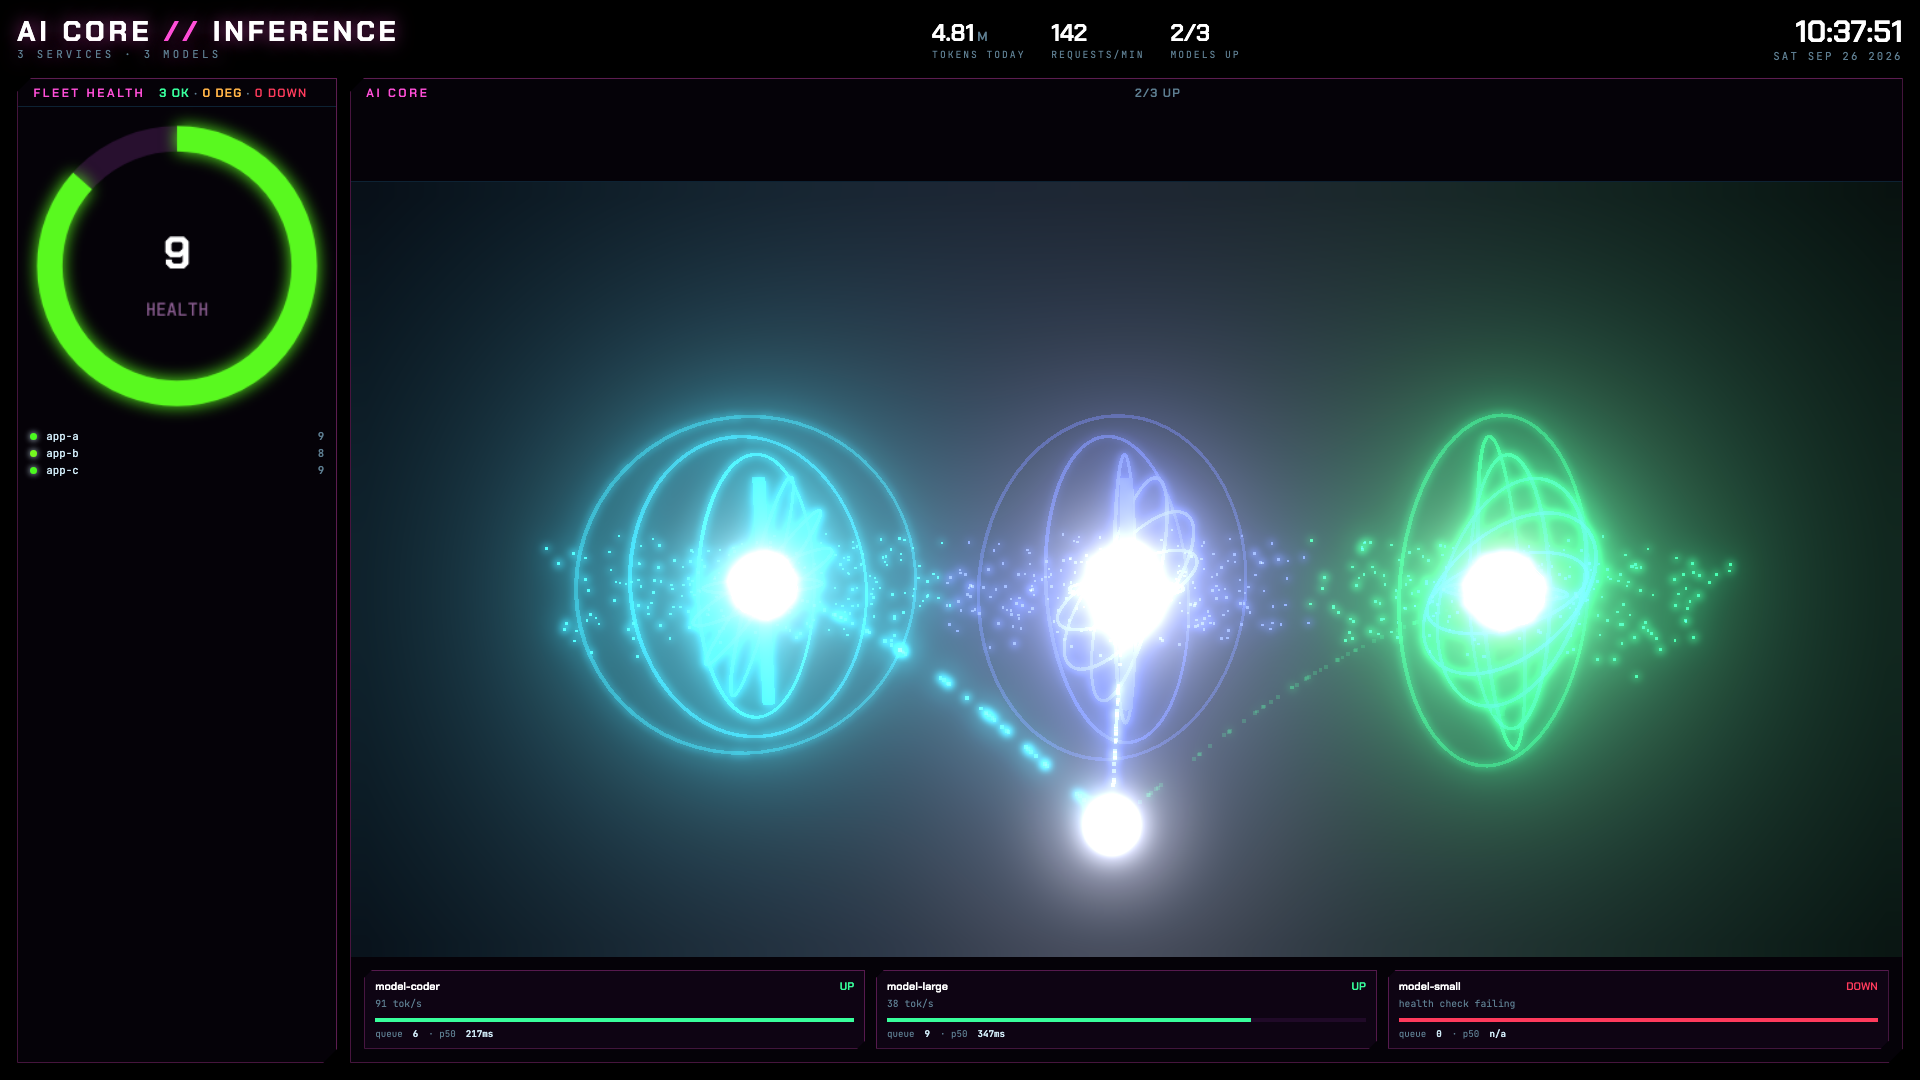
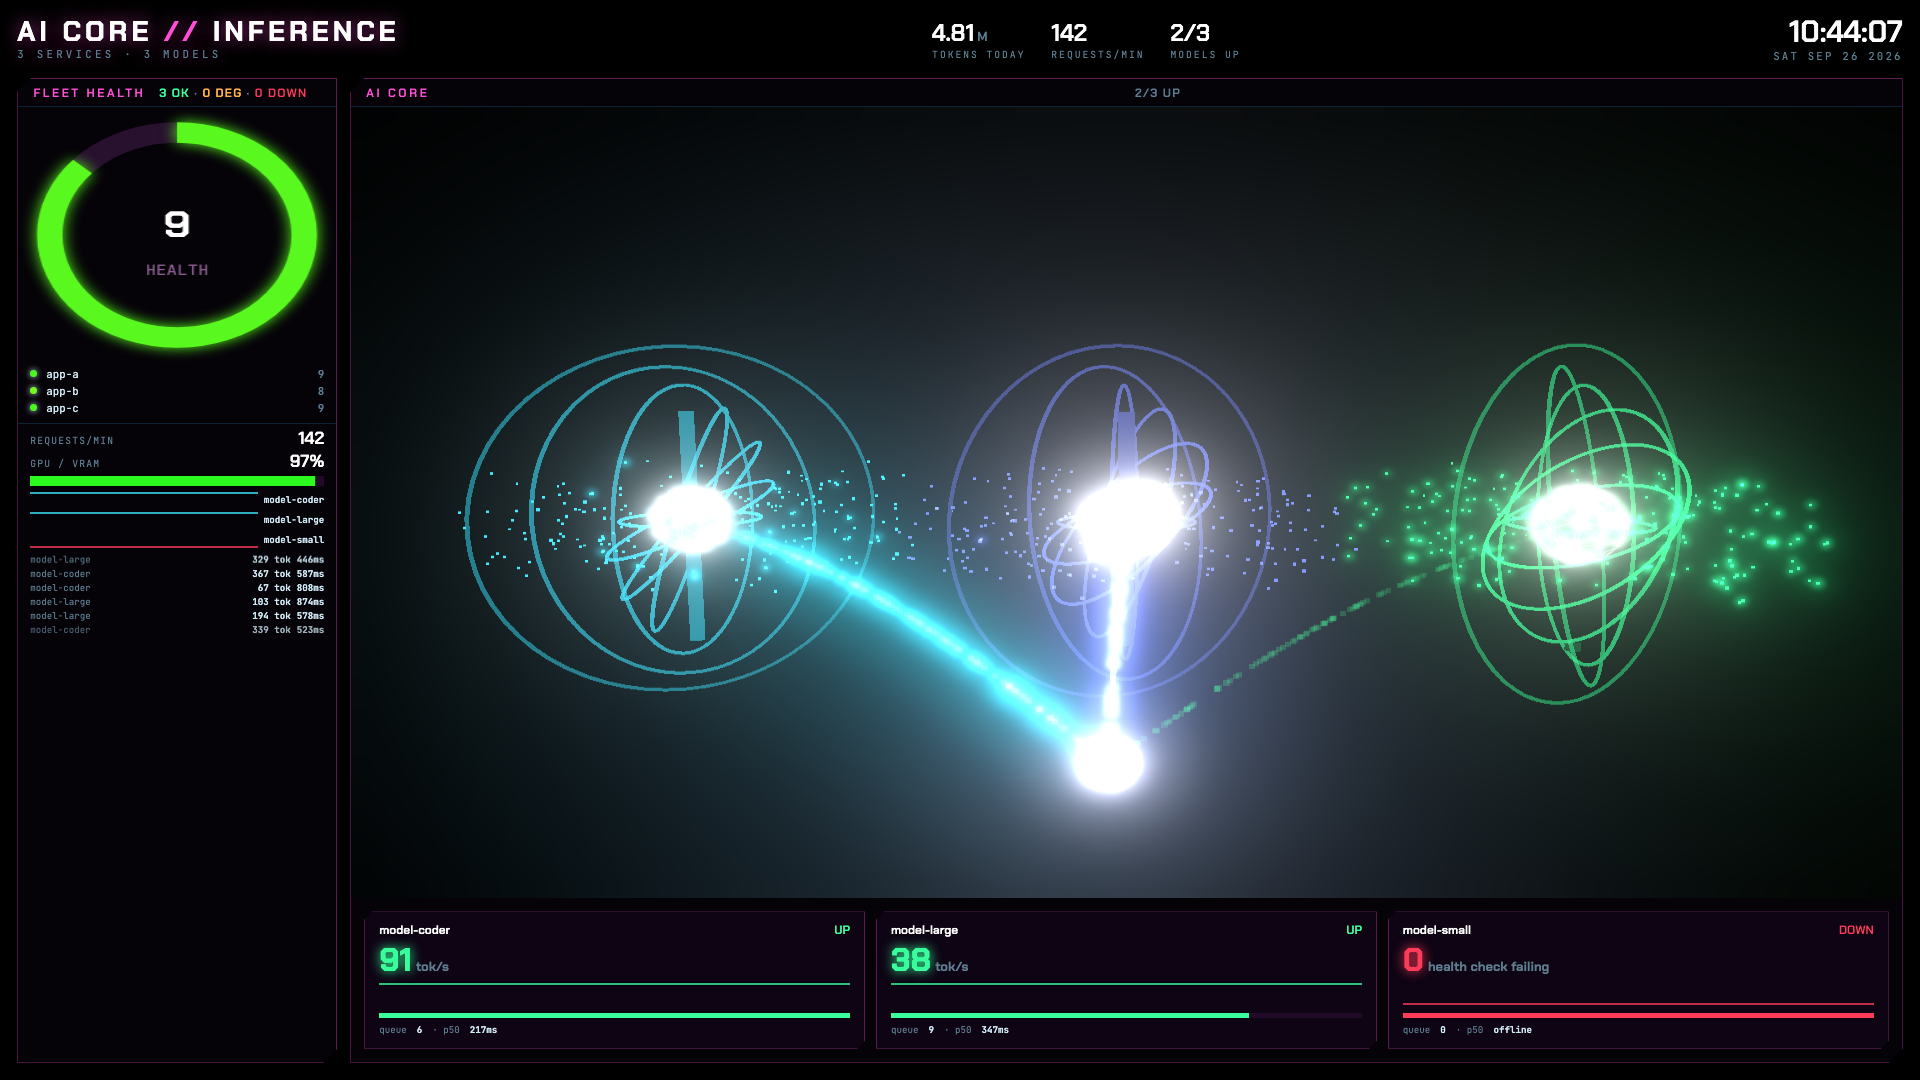
fix(mc3): solid black background, fill dead space, bolder model cards
- Opaque WebGL clear colour (alpha:false) plus a tighter bloom threshold/radius:
  the previous low threshold (0.1) bloomed nearly every lit pixel, reading as a
  teal/grey fog wash across the whole viewport instead of solid black with glow
  confined to the objects.
- #cores now declares 3 explicit grid row tracks (h2/reactor/modeltab) instead
  of 2 for 3 children — the implicit third row had been handing the header a
  share of the flexible track, leaving a dead strip above the scene.
- Fills the fleet-health column below the 3 app rows with requests/min, a
  GPU/VRAM stand-in gauge, per-model tok/s sparklines, and a scrolling
  synthetic recent-request feed (model, tokens, latency) — all data-source
  stand-in where no live metric exists.
- Model cards: bigger bold tok/s hero number, a mini tok/s sparkline, and
  "offline" in place of "n/a" for a down model's latency (n/a read as
  non-production text).
- Doubles the hub-bound particle count per stream and ramps each particle's
  colour from dim (at the core) to bright (at the hub) so flow direction reads
  from a single still frame, not only from motion between frames.

Assisted-by: Claude:claude-sonnet-5
Claude-Session: https://claude.ai/code/session_01NMFoeki5AFRtcpDmd74e6T

diff --git a/site/mc3/mc3.js b/site/mc3/mc3.js
@@ -116,23 +116,115 @@ function standInQueueLatency(m) {
   const base = hashN(m.n) % 7;
   return { queue: base + Math.round(m.tok / 15), p50: 80 + base * 35 + Math.round(m.tok * 1.5) };
 }
+// Rolling per-model tok/s history for the sparklines (model cards + fleet-health column). Real
+// once the router feed answers (each refresh tick appends the live tok value); a brand-new name
+// seeds flat at its first-seen value, same technique SAMPLE_LLM.hist already uses, so a sparkline
+// never has to fabricate a past it doesn't know.
+const HIST_N = 24;
+const tokHistory = new Map();
+function pushHist(name, tok) {
+  let h = tokHistory.get(name);
+  if (!h) { h = Array(HIST_N).fill(tok); tokHistory.set(name, h); }
+  else { h.push(tok); h.shift(); }
+  return h;
+}
+function drawSpark(canvas, hist, color) {
+  const dpr = Math.min(devicePixelRatio || 1, 2);
+  const w = Math.max(1, Math.round(canvas.clientWidth * dpr)), h = Math.max(1, Math.round(canvas.clientHeight * dpr));
+  if (canvas.width !== w) canvas.width = w;
+  if (canvas.height !== h) canvas.height = h;
+  const c = canvas.getContext('2d');
+  c.clearRect(0, 0, w, h);
+  const max = Math.max(1, ...hist);
+  c.beginPath();
+  hist.forEach((v, i) => {
+    const x = (i / (hist.length - 1)) * w, y = h - (v / max) * (h - 2 * dpr) - dpr;
+    i === 0 ? c.moveTo(x, y) : c.lineTo(x, y);
+  });
+  c.strokeStyle = color; c.lineWidth = 1.5 * dpr; c.lineJoin = 'round'; c.stroke();
+}
+
 function renderCore() {
   const sample = !model.models.length;
   const list = sample ? SAMPLE_LLM.map((m) => ({ n: m.n, up: m.state < 2, tok: m.tok })) : model.models;
   reactorList = list;
+  list.forEach((m) => pushHist(m.n, m.tok));
   $('modeltab').innerHTML = list.map((m) => {
     const col = m.up ? (m.tok > 0.05 ? 'var(--green)' : 'var(--cyan)') : 'var(--red)';
-    const status = m.up ? (m.tok > 0.05 ? `${m.tok.toFixed(0)} tok/s` : 'idle') : 'health check failing';
+    const status = m.up ? 'tok/s' : 'health check failing';
     const { queue, p50 } = standInQueueLatency(m);
     return `<div class="mc"><div class="mch"><b title="${esc(m.n)}">${esc(m.n.split('/').pop())}</b><span style="color:${col}">${m.up ? 'UP' : 'DOWN'}</span></div>
-      <div class="mcv">${status}</div>
+      <div class="mctok" style="color:${col}">${m.up ? m.tok.toFixed(0) : '0'}<i>${status}</i></div>
+      <canvas class="mcspark" data-model="${esc(m.n)}"></canvas>
       <div class="mcbar"><div style="width:${m.up ? clamp(m.tok * 2, 6, 100) : 100}%;background:${col}"></div></div>
-      <div class="mcstats" data-source="stand-in">queue <b>${queue}</b> &middot; p50 <b>${p50 == null ? 'n/a' : `${p50}ms`}</b></div></div>`;
+      <div class="mcstats" data-source="stand-in">queue <b>${queue}</b> &middot; p50 <b>${p50 == null ? 'offline' : `${p50}ms`}</b></div></div>`;
   }).join('');
+  for (const canvas of $('modeltab').querySelectorAll('.mcspark')) {
+    const m = list.find((x) => x.n === canvas.dataset.model);
+    drawSpark(canvas, tokHistory.get(m.n) || [0], m.up ? (m.tok > 0.05 ? '#38ff9c' : '#3ee6ff') : '#ff3b5c');
+  }
   const up = list.filter((m) => m.up).length;
   $('coresum').textContent = `${up}/${list.length} UP`;
   setSampleBadge($('cores'), sample);
   setState($('cores'), 'ok');
+  renderCoreExtra(list);
+}
+
+/* ---------------- fleet-health column fill: req/min, GPU/VRAM, sparklines, request feed ------- */
+// No GPU/VRAM exporter and no per-request feed exist yet (see Q, site/lib/queries.js) — these two
+// widgets are always stand-in, deterministically driven off the real model list so they still
+// track UP/DOWN and load instead of sitting frozen. cxReqMin mirrors the real header KPI and
+// carries no [data-source] marker of its own.
+let feedTimer = null;
+onDispose(() => { if (feedTimer) clearTimeout(feedTimer); });
+function renderCoreExtra(list) {
+  $('cxReqMin').textContent = model.reqPerMin != null ? model.reqPerMin.toFixed(0) : '0';
+
+  const upList = list.filter((m) => m.up);
+  const gpuPct = clamp(Math.round((upList.reduce((s, m) => s + m.tok, 0) / Math.max(1, list.length)) * 2 + upList.length * 8), 4, 97);
+  $('cxGpu').textContent = `${gpuPct}%`;
+  $('cxGpu').dataset.source = 'stand-in';
+  const gauge = $('gpuGauge'), gc = gauge.getContext('2d');
+  const dpr = Math.min(devicePixelRatio || 1, 2);
+  const gw = Math.max(1, Math.round(gauge.clientWidth * dpr)), gh = Math.max(1, Math.round(gauge.clientHeight * dpr));
+  if (gauge.width !== gw) gauge.width = gw;
+  if (gauge.height !== gh) gauge.height = gh;
+  gc.clearRect(0, 0, gw, gh);
+  gc.fillStyle = '#200a28'; gc.fillRect(0, 0, gw, gh);
+  gc.fillStyle = hue(gpuPct); gc.fillRect(0, 0, gw * gpuPct / 100, gh);
+  gauge.dataset.source = 'stand-in';
+
+  $('modelSparks').innerHTML = list.map((m) => `<div class="spk"><canvas class="spkc" data-model="${esc(m.n)}"></canvas><b>${esc(m.n.split('/').pop())}</b></div>`).join('');
+  for (const canvas of $('modelSparks').querySelectorAll('.spkc')) {
+    const m = list.find((x) => x.n === canvas.dataset.model);
+    drawSpark(canvas, tokHistory.get(m.n) || [0], m.up ? '#3ee6ff' : '#ff3b5c');
+  }
+
+  // Synthetic recent-request feed: one row per tick from a randomly-picked UP model, cadence
+  // scaled by how many models are actually serving traffic. Never scheduled twice (feedTimer
+  // guards against overlapping timers across refresh ticks, the same pattern MC2's blocked-feed
+  // scheduler uses).
+  if (!feedTimer) scheduleFeedTick(list);
+}
+function scheduleFeedTick(list) {
+  const upList = list.filter((m) => m.up);
+  const delay = RM ? 4000 : upList.length ? 900 / upList.length : 2500;
+  feedTimer = setTimeout(() => {
+    feedTimer = null;
+    if (upList.length) {
+      const m = upList[Math.floor(Math.random() * upList.length)];
+      const tokens = Math.max(1, Math.round(40 + Math.random() * 400));
+      const ms = Math.max(20, Math.round(60 + Math.random() * 900));
+      const row = document.createElement('div');
+      row.className = 'cfrow cfrow-in';
+      row.dataset.source = 'stand-in';
+      row.innerHTML = `<span>${esc(m.n.split('/').pop())}</span><b>${tokens} tok</b><b>${ms}ms</b>`;
+      const feed = $('reqfeed');
+      feed.prepend(row);
+      while (feed.children.length > 24) feed.lastElementChild.remove();
+    }
+    scheduleFeedTick(model.models.length ? model.models : SAMPLE_LLM.map((s) => ({ n: s.n, up: s.state < 2, tok: s.tok })));
+  }, delay);
 }
 
 /* ---------------- reactor: 3D hero (sketch scene 88) or 2D fallback ---------------- */
@@ -157,11 +249,20 @@ const CORE_GEOMETRIES = [
   () => new THREE.OctahedronGeometry(8, 2),
 ];
 function build3DCore() {
-  const renderer = new THREE.WebGLRenderer({ canvas: reactor, antialias: true, alpha: true });
+  // alpha:false + an opaque black clear colour, not a transparent canvas over the panel's CSS
+  // background: UnrealBloomPass blurs bright pixels outward, and over a transparent backdrop
+  // that blur composited with the panel's own background as a visible teal/grey fog wash edge
+  // to edge. An opaque black backbuffer keeps the glow confined to the objects themselves.
+  const renderer = new THREE.WebGLRenderer({ canvas: reactor, antialias: true, alpha: false });
+  renderer.setClearColor(0x000000, 1);
   const scene = new THREE.Scene();
   const cam = new THREE.PerspectiveCamera(42, 1, 1, 2000);
   cam.position.set(0, 30, 210);
-  const bloomFx = makeBloom(renderer, scene, cam, { strength: 1.25, radius: 0.55, threshold: 0.1 });
+  // threshold 0.1 + radius 0.55 bloomed nearly every lit pixel in the scene, not just the bright
+  // cores/hub — that wide, low-threshold blur is what read as a teal/grey fog wash across the
+  // whole canvas instead of solid black. A much higher threshold (only genuinely HDR pixels
+  // bloom) and a tighter radius confine the glow to the objects themselves.
+  const bloomFx = makeBloom(renderer, scene, cam, { strength: 1.1, radius: 0.32, threshold: 0.65 });
 
   const spacing = 78;
   const cores = Array.from({ length: CORE_COLS }, (_, i) => {
@@ -201,15 +302,20 @@ function build3DCore() {
   // One particle stream per core: STREAM_N points recycle along the straight line from that
   // core's centre to the hub, spawning at a random phase so the flow reads continuous rather
   // than as a single pulse. Speed scales with the core's utilisation (busier model = faster flow).
-  const STREAM_N = 60;
+  // Per-vertex colour (not a flat material colour) tapers brighter toward the hub end — a static
+  // screenshot still reads flow direction (dim at the core, bright arriving at the hub), not just
+  // motion over time.
+  const STREAM_N = 140;
   const streams = cores.map((c) => {
-    const pos = new Float32Array(STREAM_N * 3), pg = new THREE.BufferGeometry();
+    const pos = new Float32Array(STREAM_N * 3), pgcol = new Float32Array(STREAM_N * 3), pg = new THREE.BufferGeometry();
     pg.setAttribute('position', new THREE.BufferAttribute(pos, 3));
-    const mat = new THREE.PointsMaterial({ color: new THREE.Color(c.col).multiplyScalar(1.4), size: 1.8, transparent: true, opacity: 0.9, blending: THREE.AdditiveBlending, depthWrite: false });
+    pg.setAttribute('color', new THREE.BufferAttribute(pgcol, 3));
+    const mat = new THREE.PointsMaterial({ size: 2.4, transparent: true, opacity: 0.9, vertexColors: true, blending: THREE.AdditiveBlending, depthWrite: false });
     const pts = new THREE.Points(pg, mat);
     scene.add(pts);
     const phase = Array.from({ length: STREAM_N }, () => Math.random());
-    return { pos, pg, phase, mat };
+    const dim = new THREE.Color(c.col).multiplyScalar(0.5), bright = new THREE.Color(c.col).multiplyScalar(2.2);
+    return { pos, pgcol, pg, phase, mat, dim, bright };
   });
 
   const resizeAt = (w, h) => { renderer.setSize(w, h, false); bloomFx.setSize(w, h); cam.aspect = w / (h || 1); cam.updateProjectionMatrix(); };
@@ -256,9 +362,13 @@ function build3DCore() {
         stream.pos[k * 3] = from.x + (to.x - from.x) * ph;
         stream.pos[k * 3 + 1] = from.y + (to.y - from.y) * ph + Math.sin(ph * Math.PI) * 6;
         stream.pos[k * 3 + 2] = from.z + (to.z - from.z) * ph;
+        // Colour ramps dim->bright with ph (0 at the core, 1 at the hub) so the flow direction
+        // reads from a single still frame, not just from motion between frames.
+        stream.dim.clone().lerp(stream.bright, ph).toArray(stream.pgcol, k * 3);
       });
       stream.pg.attributes.position.needsUpdate = true;
-      stream.mat.opacity = c.up ? 0.9 : 0.08;
+      stream.pg.attributes.color.needsUpdate = true;
+      stream.mat.opacity = c.up ? 0.9 : 0.06;
     });
     bloomFx.render();
   }

diff --git a/site/mc3/mc3.css b/site/mc3/mc3.css
@@ -31,28 +31,57 @@ header{grid-column:1/-1;display:flex;align-items:center;gap:clamp(16px,2.4vmin,3
 
 /* fleet health (mandatory apps panel) */
 #apps{grid-row:2;grid-column:1;display:flex;flex-direction:column;overflow:hidden}
-#fleetRing{width:100%;aspect-ratio:1;max-height:34%;flex:none;display:block}
-.applist{flex:1;min-height:0;overflow:hidden auto;padding:4px clamp(8px,1.2vmin,12px) 8px;display:flex;flex-direction:column;gap:3px}
+#fleetRing{width:100%;aspect-ratio:1;max-height:26%;flex:none;display:block}
+.applist{flex:none;min-height:0;overflow:hidden;padding:4px clamp(8px,1.2vmin,12px) 8px;display:flex;flex-direction:column;gap:3px}
 .ar{display:grid;grid-template-columns:8px 1fr auto;align-items:center;gap:8px;font-size:clamp(10px,1vmin,12px)}
 .ar i{width:7px;height:7px;border-radius:50%;box-shadow:0 0 6px currentColor}
 .ar span{color:var(--ink);overflow:hidden;white-space:nowrap;text-overflow:ellipsis}
 .ar b{color:var(--dim);font-weight:600}
 
-/* AI core reactor + model table */
-#cores{grid-row:2;grid-column:2;display:grid;grid-template-rows:minmax(0,1fr) auto;overflow:hidden}
+/* Dense fill for the rest of the fleet-health column, below the 3 app rows: req/min, a GPU/VRAM
+   stand-in gauge, per-model tok/s sparklines, and a scrolling synthetic request feed. No live
+   GPU/VRAM or per-request metric exists (see Q, site/lib/queries.js) — this whole block is
+   stand-in, marked via [data-source] on the elements that carry no real number at all
+   (cxGpu/gauge/feed); cxReqMin mirrors the real header KPI, so it stays unmarked. */
+.coreextra{flex:1;min-height:0;display:flex;flex-direction:column;gap:6px;
+  padding:6px clamp(8px,1.2vmin,12px) 8px;border-top:1px solid var(--grid);overflow:hidden}
+.cxrow{display:flex;justify-content:space-between;align-items:baseline;font-size:clamp(9px,.9vmin,11px);color:var(--dim);letter-spacing:.12em;text-transform:uppercase}
+.cxrow b{color:#fff;font:600 clamp(14px,1.6vmin,18px)/1 var(--disp);letter-spacing:0}
+#gpuGauge{width:100%;height:10px;display:block;flex:none}
+.sparks{display:flex;flex-direction:column;gap:4px;flex:none}
+.spk{display:grid;grid-template-columns:1fr auto;align-items:center;gap:6px;font-size:clamp(9px,.85vmin,10px);color:var(--dim)}
+.spk canvas{width:100%;height:16px;display:block}
+.spk b{color:var(--ink);font-weight:600;white-space:nowrap}
+.coreextra .feed{position:relative;flex:1;min-height:0;overflow:hidden;display:flex;flex-direction:column;gap:2px}
+.cfrow{display:grid;grid-template-columns:1fr auto auto;gap:6px;font-size:clamp(9px,.85vmin,10px);color:var(--dim);white-space:nowrap}
+.cfrow b{color:var(--ink);font-weight:600}
+.cfrow:nth-child(n+6){opacity:.75}
+.cfrow:nth-child(n+11){opacity:.5}
+.cfrow-in{animation:cfrow-in .35s ease-out}
+@keyframes cfrow-in{from{opacity:0;transform:translateY(-4px)}to{opacity:1;transform:none}}
+
+/* AI core reactor + model table — 3 explicit row tracks (h2 / reactor / modeltab) so h2 gets
+   only its content height instead of a share of the flexible track (grid auto-placement with
+   only 2 explicit tracks for 3 children handed h2 part of the 1fr row, leaving a ~70px dead
+   strip above the scene). */
+#cores{grid-row:2;grid-column:2;display:grid;grid-template-rows:auto minmax(0,1fr) auto;overflow:hidden}
 #reactor{width:100%;height:100%;min-height:0;display:block}
 /* max-height as a viewport unit, not a %: a percentage here resolves against the grid row's
    auto-sized (content-dependent) height, which is circular and clipped the 4th (queue/latency)
    line silently — overflow:auto with no visible scrollbar, so the row just vanished. */
-.modeltab{display:grid;grid-template-columns:repeat(auto-fit,minmax(180px,1fr));gap:clamp(8px,1vmin,12px);
-  padding:clamp(8px,1.2vmin,14px);max-height:clamp(120px,22vh,220px);overflow:auto}
-.mc{border:1px solid rgba(255,79,216,.3);background:rgba(20,6,26,.6);padding:8px 10px;
+.modeltab{display:grid;grid-template-columns:repeat(auto-fit,minmax(200px,1fr));gap:clamp(8px,1vmin,12px);
+  padding:clamp(8px,1.2vmin,14px);max-height:clamp(160px,28vh,280px);overflow:auto}
+.mc{border:1px solid rgba(255,79,216,.3);background:rgba(20,6,26,.6);padding:10px 14px 12px;
   clip-path:polygon(8px 0,100% 0,100% calc(100% - 8px),calc(100% - 8px) 100%,0 100%,0 8px)}
-.mch{display:flex;justify-content:space-between;gap:8px;font:600 clamp(10px,1vmin,12px) var(--disp)}
+.mch{display:flex;justify-content:space-between;gap:8px;font:600 clamp(11px,1.1vmin,13px) var(--disp)}
 .mch b{color:#fff;overflow:hidden;white-space:nowrap;text-overflow:ellipsis;font-weight:600}
-.mcv{color:var(--dim);font-size:clamp(9px,.9vmin,11px);margin-top:4px}
-.mcbar{height:4px;background:#200a28;margin-top:8px}
+/* Big, bold tok/s readout is the card's hero number — everything else stays secondary. */
+.mctok{font:700 clamp(22px,3vmin,34px)/1 var(--disp);color:#fff;margin-top:6px;text-shadow:0 0 12px currentColor}
+.mctok i{font-style:normal;font-size:.4em;color:var(--dim);margin-left:4px;text-shadow:none}
+.mcv{color:var(--dim);font-size:clamp(9px,.9vmin,11px);margin-top:2px}
+.mcbar{height:5px;background:#200a28;margin-top:8px}
 .mcbar div{height:100%}
+.mcspark{width:100%;height:22px;display:block;margin-top:6px}
 /* Dense per-model readout row: queue depth + p50 latency, surrounding the reactor scene
    alongside tok/s and UP/DOWN status. No live litellm queue/latency metric exists yet (see
    Q in site/lib/queries.js) — always stand-in, marked on .modeltab itself via setStandIn. */

diff --git a/site/mc3/index.html b/site/mc3/index.html
@@ -19,6 +19,13 @@
     <h2>Fleet health <span id="appsum">—</span><span data-panel-message></span></h2>
     <canvas id="fleetRing" width="256" height="256"></canvas>
     <div class="applist" id="applist"></div>
+    <div class="coreextra" id="coreextra">
+      <div class="cxrow"><span>Requests/min</span><b class="num" id="cxReqMin">0</b></div>
+      <div class="cxrow"><span>GPU / VRAM</span><b class="num" id="cxGpu">0%</b></div>
+      <canvas id="gpuGauge" width="288" height="10"></canvas>
+      <div class="sparks" id="modelSparks"></div>
+      <div class="feed" id="reqfeed"></div>
+    </div>
   </section>
 
   <section class="panel" id="cores" data-panel="cores" data-state="pending">
